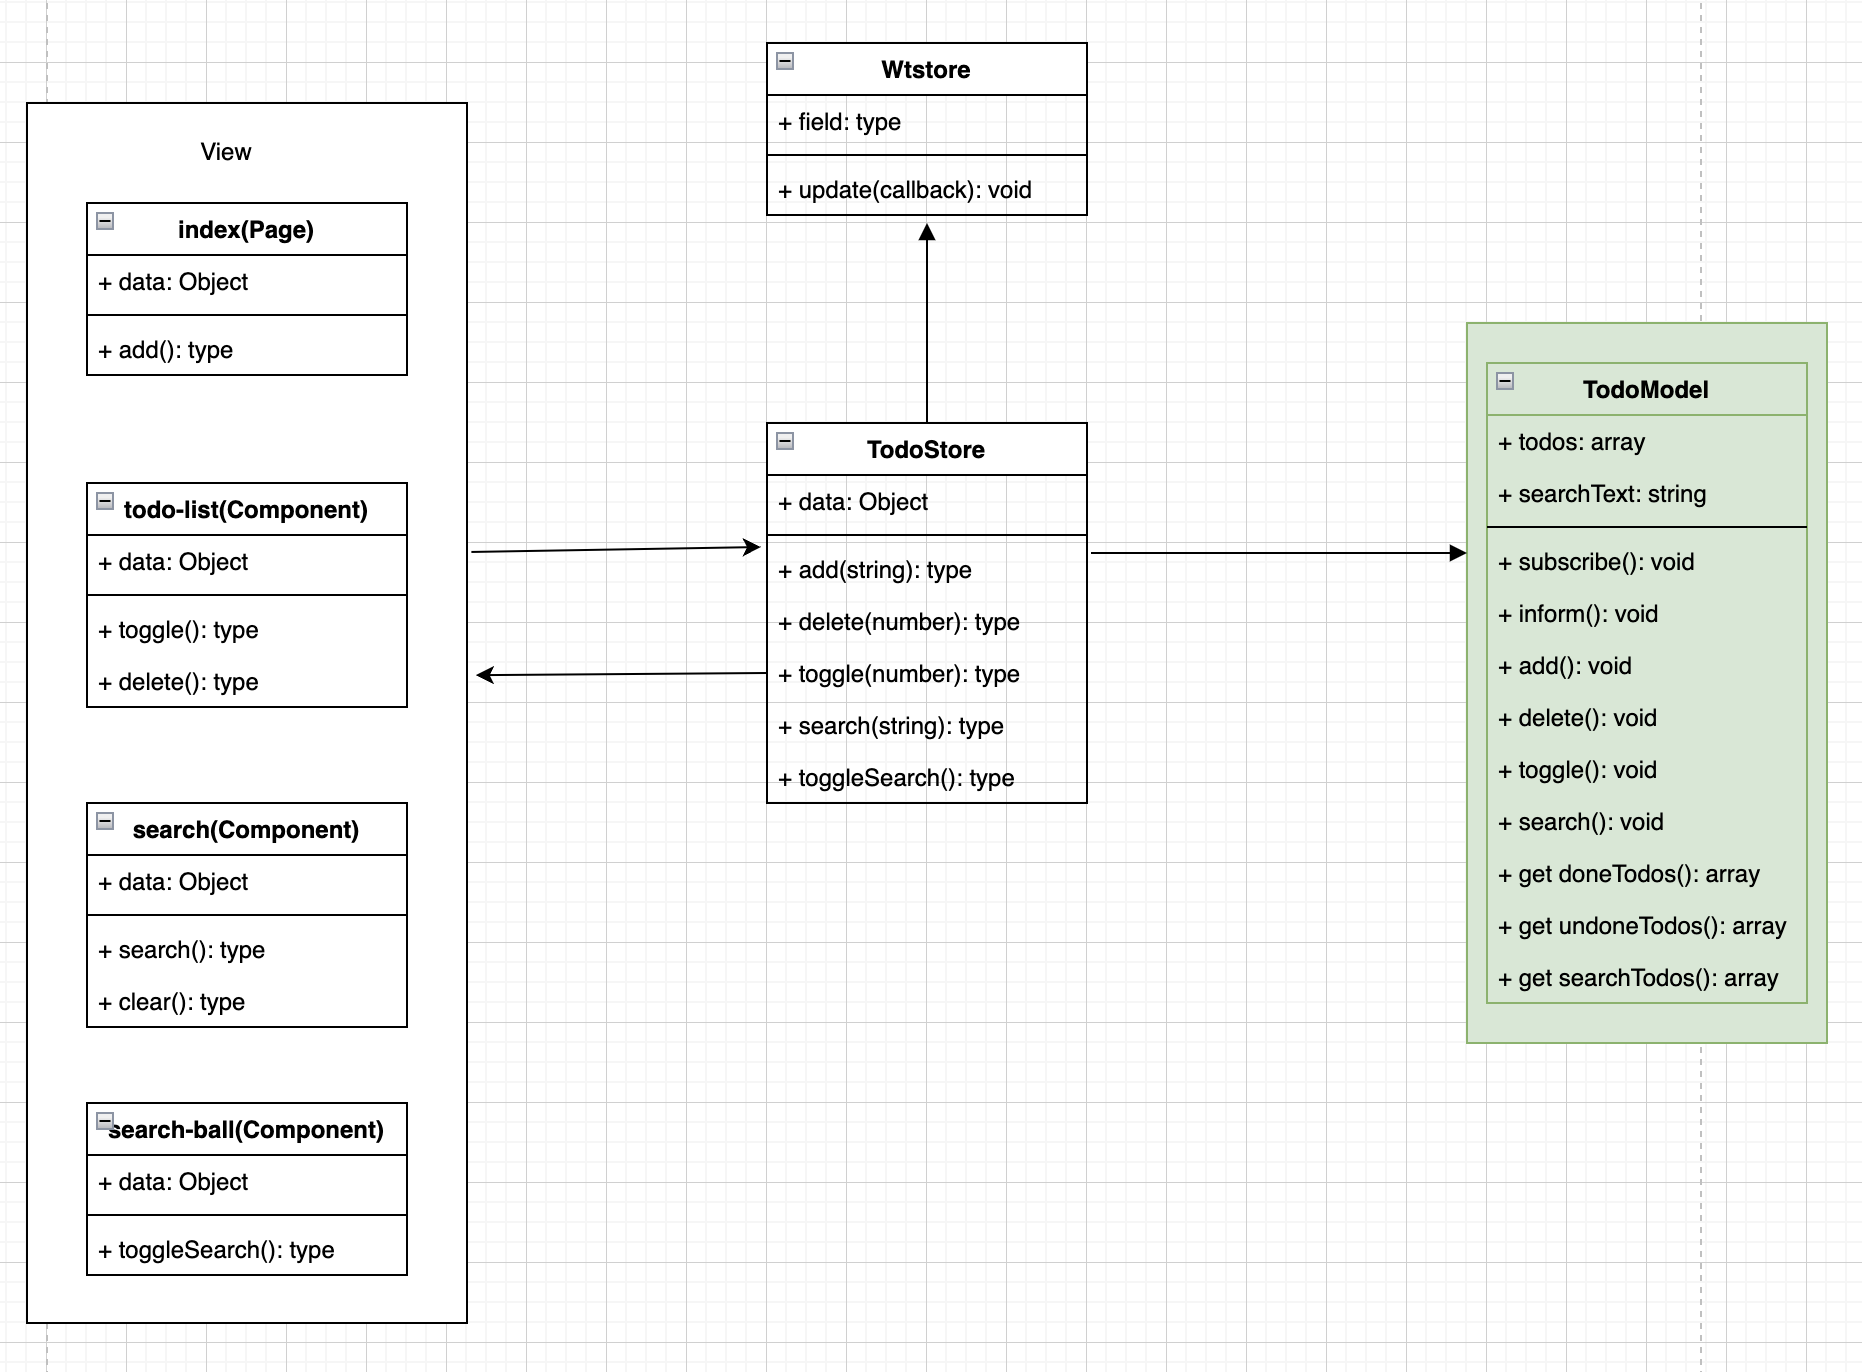
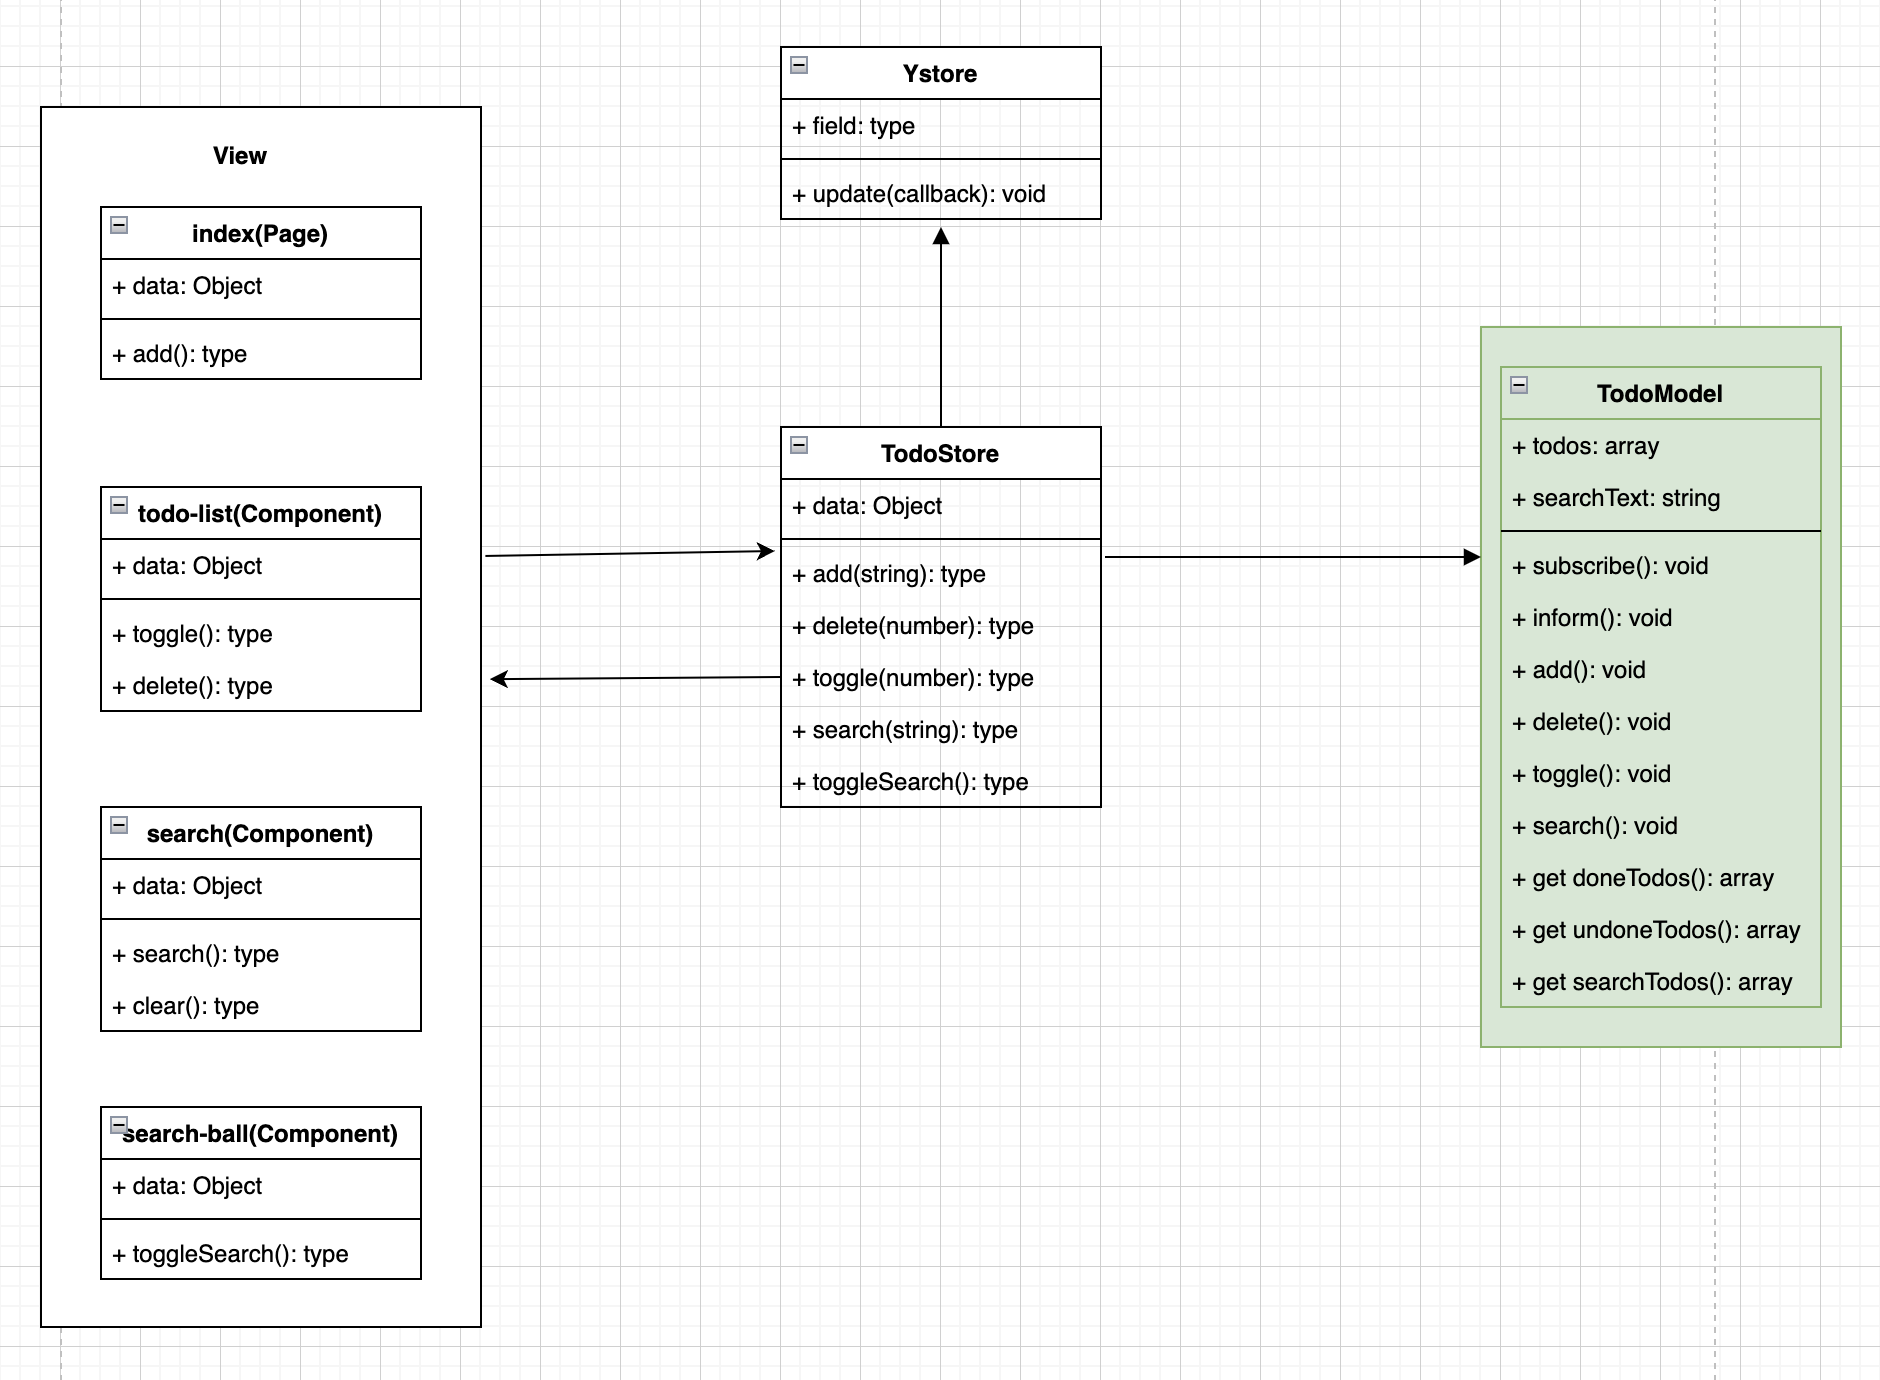
Docs:    设计类图图片修改&文字校对

diff --git a/README.md b/README.md
@@ -16,7 +16,7 @@ npm 相关问题参考：[小程序官方文档-npm支持](https://developers.we
 - **Passive View**: Ystore架构下的 View 非常薄，没有参杂任何业务逻辑，只做被动改变。
 - **Simple and Intuitive**: Ystore 内部使用 deepClone + dataDiff 换取最短路径， 比setData 更符合直觉的编程体验，只需修改数据，然后update，不需要再使用 setData(xxxxxxxxxxx)。
 - **Testability**: View 和 Model 之间没有直接依赖，开发者能够借助模拟对象注入测试两者中的任一方。
-- **No invasion**: 在使用Ystore的情况下，你依旧可以使用小程序原有的所有语法，Ystore不会带来任何的副作用。
+- **No invasion**: 在使用Ystore的情况下，你依旧可以使用小程序原有的所有语法，Ystore不会带来副作用。
 
 ### MVP
 
@@ -41,7 +41,7 @@ Store 层可以理解成**中介者模式**中的中介者，使 View 和 Model 
 
 ## 倒计时案例
 
-开发一个倒计时APP
+### 应用截图
 
 <img src="https://wechatapppro-1252524126.cdn.xiaoeknow.com/appAKLWLitn7978/image/b_u_5b2225aa46488_oGKN7IvA/l0tr88nm0lb3.jpeg" width="300px">
 
@@ -179,7 +179,7 @@ wxml
 
 `VUE3` 做了很大的改动，其中一个比较核心的点是[组合式API](https://v3.cn.vuejs.org/guide/composition-api-introduction.html#什么是组合式-api)，`VUE3`借助组合式API可以很方便的进行业务逻辑的职责分离，使代码具有更好的可读性和可维护性。
 
-在Ystore架构之下，使用面向对象的方式将核心业务逻辑抽离到Model之中，你将bu在纯业务逻辑的Model里面，相较于`VUE3组合式API`提供的能力，你能做的更多，你可以充分释放你的想象力，更加优雅的设计你的程序，更加灵活的对职责进行分离。。。写出更好的实现
+在Ystore架构之下，使用面向对象的方式将核心业务逻辑抽离到Model之中，你将bu在纯业务逻辑的Model里面，相较于`VUE3组合式API`提供的能力，你能做的更多，你可以充分释放想象力，更加优雅的设计你的程序，更加灵活的对职责进行分离。。。写出更好的实现
 
 ## 声明
 
@@ -191,13 +191,11 @@ Ystore站在[Westore](https://github.com/Tencent/westore)的肩膀上，在其MV
 - 优化重复diff运算问题
 - 为属性data增加安全处理，防止其地址被篡改
 - 修复内存泄漏问题
-- 支持UI更新后的回调
-...
+- 支持UI更新后回调
 
 ## 贡献
 
-欢迎，并且非常感谢。
-按照规范流程提PR即可，提PR之前需运行`npm run test`保证测试用例全部通过。
+欢迎，并且非常感谢。按照规范流程提PR即可，提PR之前需运行`npm run test`保证测试用例全部通过。
 
 ## License
 
